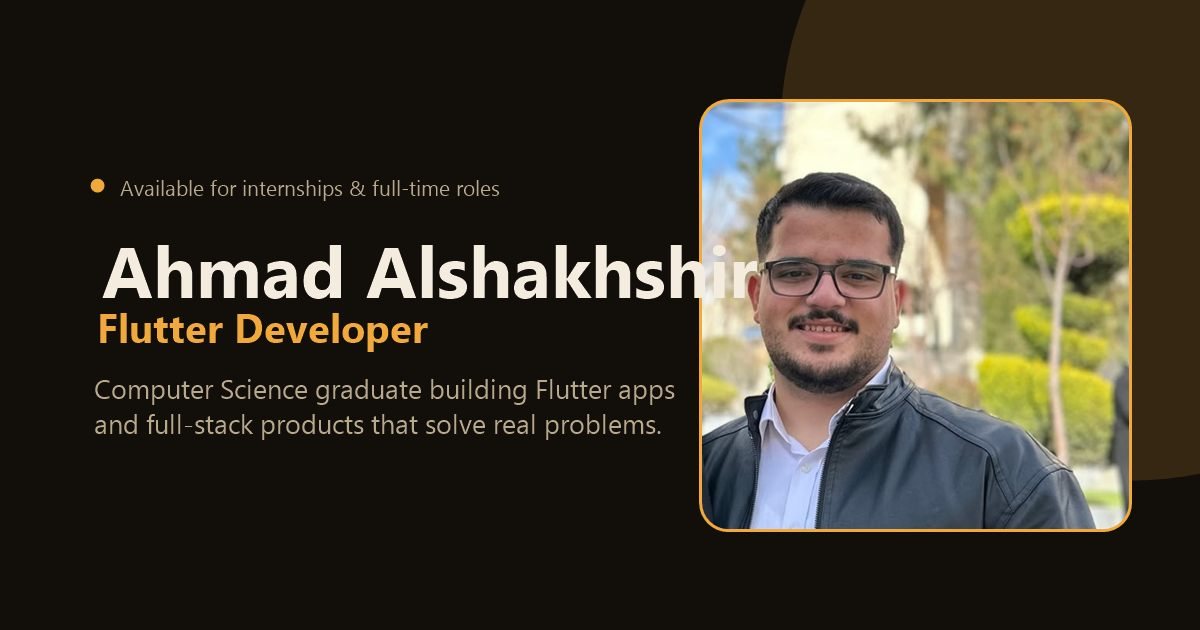
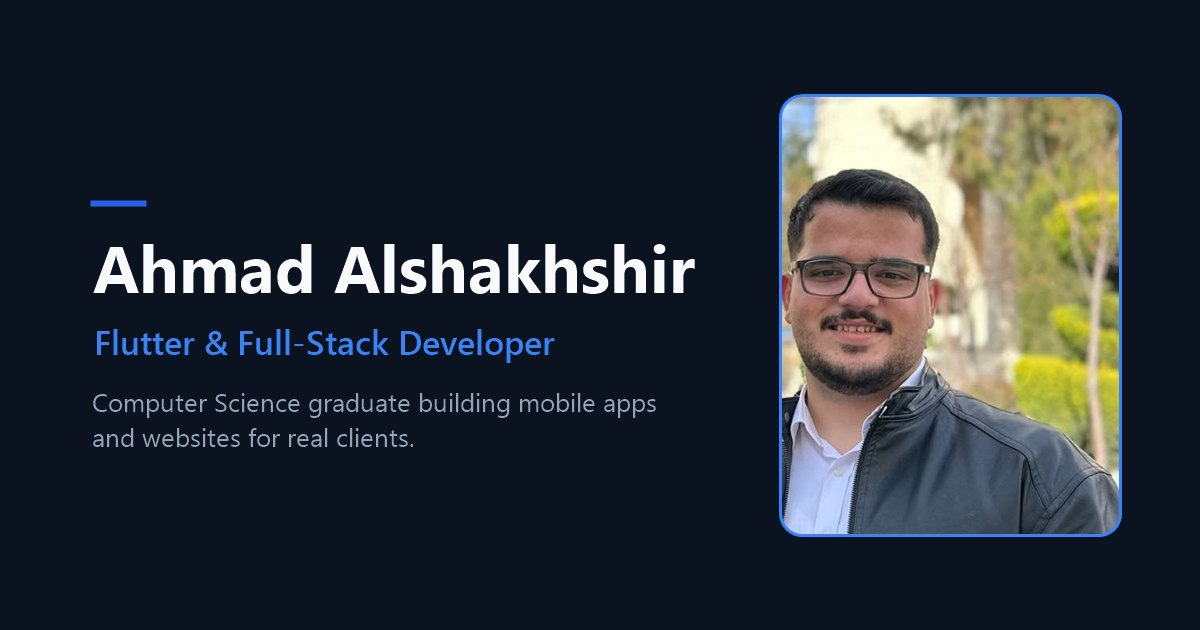
New color scheme: navy and blue

diff --git a/index.html b/index.html
@@ -35,36 +35,41 @@
 <link href="https://fonts.googleapis.com/css2?family=Outfit:wght@400;500;600;700;800&family=Inter:wght@400;500;600&display=swap" rel="stylesheet">
 <style>
   :root{
-    --bg:#120e0a;
-    --bg-soft:#1b1512;
-    --header-bg:rgba(18,14,10,0.85);
-    --cream:#f3ecdf;
-    --cream-2:#e9dfcb;
-    --paper:#faf6ee;
-    --ink:#201a14;
-    --text:#f3ecdf;
-    --text-soft:#e9dfcb;
-    --heading:#faf6ee;
-    --muted:#b8a98c;
-    --muted-2:#7a6e58;
-    --accent:#f2a93b;
-    --accent-dark:#c9791e;
-    --line:rgba(243,236,223,0.12);
-    --tag-bg:rgba(243,236,223,0.06);
+    --bg:#0b1220;
+    --bg-soft:#111a2e;
+    --header-bg:rgba(11,18,32,0.85);
+    --cream:#eef2f8;
+    --cream-2:#dde5f0;
+    --paper:#f8fafc;
+    --ink:#0f172a;
+    --on-accent:#ffffff;
+    --text:#e2e8f0;
+    --text-soft:#cbd5e1;
+    --heading:#f8fafc;
+    --muted:#94a3b8;
+    --muted-2:#64748b;
+    --accent:#3b82f6;
+    --accent-dark:#2563eb;
+    --btn:#2563eb;
+    --btn-hover:#1d4ed8;
+    --line:rgba(226,232,240,0.10);
+    --tag-bg:rgba(226,232,240,0.05);
     --radius:14px;
     --maxw:1140px;
   }
 
   :root[data-theme="light"]{
-    --bg:#f5efe2;
-    --bg-soft:#eae0cb;
-    --header-bg:rgba(245,239,226,0.85);
-    --text:#201a14;
-    --text-soft:#4a4030;
-    --heading:#120e0a;
-    --muted:#6b5f4a;
-    --line:rgba(32,26,20,0.14);
-    --tag-bg:rgba(32,26,20,0.05);
+    --bg:#f6f8fb;
+    --bg-soft:#eaeff6;
+    --header-bg:rgba(246,248,251,0.85);
+    --text:#0f172a;
+    --text-soft:#334155;
+    --heading:#0b1220;
+    --muted:#64748b;
+    --accent:#2563eb;
+    --accent-dark:#1d4ed8;
+    --line:rgba(15,23,42,0.12);
+    --tag-bg:rgba(15,23,42,0.04);
   }
 
   *{margin:0;padding:0;box-sizing:border-box;}
@@ -89,7 +94,7 @@
   section{position:relative;}
   section.section-pad{overflow:hidden;}
   .wrap{max-width:var(--maxw);margin:0 auto;padding:0 32px;position:relative;z-index:1;}
-  ::selection{background:var(--accent);color:var(--ink);}
+  ::selection{background:var(--btn);color:var(--on-accent);}
 
   .reveal{opacity:0;transform:translateY(16px);transition:opacity .6s ease, transform .6s ease;}
   .reveal.in{opacity:1;transform:none;}
@@ -150,7 +155,7 @@
   .brand-mark{
     width:48px;height:48px;border-radius:14px;flex-shrink:0;
     display:flex;align-items:center;justify-content:center;
-    background:var(--accent);color:var(--ink);
+    background:var(--btn);color:var(--on-accent);
     font-family:'Outfit',sans-serif;font-weight:800;font-size:1.1rem;
   }
   .brand-name{font-family:'Outfit',sans-serif;font-weight:700;font-size:1.12rem;color:var(--heading);white-space:nowrap;}
@@ -178,7 +183,7 @@
   .toggle-knob{
     width:26px;height:26px;border-radius:50%;
     display:flex;align-items:center;justify-content:center;
-    background:var(--accent);color:var(--ink);
+    background:var(--btn);color:var(--on-accent);
     transition:transform .3s ease;
   }
   :root[data-theme="light"] .toggle-knob{transform:translateX(-26px);}
@@ -188,11 +193,11 @@
   .hire-btn{
     display:inline-flex;align-items:center;gap:8px;white-space:nowrap;
     padding:12px 22px;border-radius:14px;
-    background:var(--accent);color:var(--ink);
+    background:var(--btn);color:var(--on-accent);
     font-weight:700;font-size:0.98rem;
     transition:transform .25s ease, box-shadow .25s ease;
   }
-  .hire-btn:hover{background:var(--accent-dark);}
+  .hire-btn:hover{background:var(--btn-hover);}
   .burger{display:none;background:none;border:none;color:var(--heading);font-size:1.6rem;cursor:pointer;}
   .nav-overlay{display:none;}
   @media (max-width:1180px){
@@ -243,7 +248,7 @@
     min-height:2.2rem;
     display:flex;align-items:center;gap:10px;
   }
-  #typed{color:var(--accent);font-weight:600;}
+  #typed{color:var(--text-soft);font-weight:500;}
   .hero p.desc{
     color:var(--muted);
     max-width:48ch;
@@ -261,10 +266,10 @@
     font-family:inherit;cursor:pointer;
   }
   .btn-primary{
-    background:var(--accent);color:var(--ink);
+    background:var(--btn);color:var(--on-accent);
   }
   .btn-primary svg{transition:transform .25s ease;}
-  .btn-primary:hover{background:var(--accent-dark);}
+  .btn-primary:hover{background:var(--btn-hover);}
   .btn-primary:hover svg{transform:translate(3px,-3px);}
   .btn-ghost{border-color:var(--line);color:var(--text);}
   .btn-ghost svg{transition:transform .25s ease;}
@@ -288,7 +293,7 @@
   }
   .avatar-frame{
     width:100%;aspect-ratio:1/1.05;border-radius:24px;
-    background:linear-gradient(160deg,#2b2118,#171310);
+    background:linear-gradient(160deg,#16223b,#0b1220);
     overflow:hidden;position:relative;
   }
   .avatar-frame img{
@@ -297,7 +302,7 @@
   .avatar-fallback{
     width:100%;height:100%;display:flex;align-items:center;justify-content:center;
     font-family:'Outfit',sans-serif;font-weight:800;font-size:4.5rem;color:var(--accent);
-    background:linear-gradient(160deg,#2b2118,#171310);
+    background:linear-gradient(160deg,#16223b,#0b1220);
   }
   .badge-float{
     position:absolute;background:var(--ink);color:var(--paper);
@@ -306,7 +311,7 @@
     box-shadow:0 14px 28px -12px rgba(0,0,0,0.5);
   }
   .badge-float.b1{top:-14px;left:-18px;}
-  .badge-float.b2{bottom:14px;right:-30px;background:var(--accent);color:var(--ink);}
+  .badge-float.b2{bottom:14px;right:-30px;background:var(--btn);color:var(--on-accent);}
   .badge-float span.ic{width:6px;height:6px;border-radius:50%;background:var(--accent);}
   .badge-float.b2 span.ic{background:var(--ink);}
 
@@ -322,12 +327,12 @@
     background:var(--cream);color:var(--ink);border-radius:var(--radius);
     padding:44px;
   }
-  .about-card p{color:#4a4030;margin-bottom:18px;font-size:1.02rem;}
+  .about-card p{color:#334155;margin-bottom:18px;font-size:1.02rem;}
   .facts{display:grid;grid-template-columns:1fr 1fr;gap:20px;margin-top:28px;}
   .fact{display:flex;gap:12px;align-items:flex-start;}
   .fact-icon{
     width:34px;height:34px;border-radius:10px;flex-shrink:0;
-    background:rgba(32,26,20,0.06);color:var(--ink);
+    background:rgba(15,23,42,0.06);color:var(--ink);
     display:flex;align-items:center;justify-content:center;
   }
   .fact b{display:block;font-family:'Outfit',sans-serif;color:var(--ink);font-size:1rem;margin-bottom:2px;}
@@ -378,13 +383,13 @@
   }
   .project-card:hover{border-color:var(--accent);transform:translateY(-4px);}
   .project-visual{
-    background:linear-gradient(150deg,#2b2118,#171310);
+    background:linear-gradient(150deg,#16223b,#0b1220);
     display:flex;align-items:center;justify-content:center;
     position:relative;height:420px;overflow:hidden;
   }
   .project-visual img{width:100%;height:100%;object-fit:cover;object-position:top center;}
   .project-tag-big{
-    font-family:'Outfit',sans-serif;font-weight:800;font-size:2.2rem;color:rgba(242,169,59,0.85);
+    font-family:'Outfit',sans-serif;font-weight:800;font-size:2.2rem;color:rgba(59,130,246,0.85);
     text-align:center;
   }
   .project-body{padding:36px 40px;}
@@ -497,7 +502,7 @@
     transition:transform .3s ease, box-shadow .3s ease;
   }
   .rafaq-credit img{width:34px;height:auto;transition:transform .5s cubic-bezier(.2,.7,.2,1);}
-  .rafaq-credit small{display:block;font-size:0.7rem;color:#6b5f4a;line-height:1.2;}
+  .rafaq-credit small{display:block;font-size:0.7rem;color:#64748b;line-height:1.2;}
   .rafaq-credit strong{display:block;font-family:'Outfit',sans-serif;font-size:1.02rem;color:#14161c;line-height:1.15;}
   .rafaq-credit:hover{transform:translateY(-3px);box-shadow:0 16px 32px -12px rgba(38,198,218,0.55);}
   .rafaq-credit:hover img{transform:rotate(-12deg) scale(1.1);}
@@ -513,7 +518,7 @@
   .mini-card:hover{transform:translateY(-6px);border-color:var(--accent);}
   .mini-thumb{
     width:calc(100% + 56px);margin:-28px -28px 18px;height:160px;
-    background:#0d0a07;border-bottom:1px solid var(--line);
+    background:#0a1020;border-bottom:1px solid var(--line);
     overflow:hidden;
   }
   .mini-thumb img{width:100%;height:100%;object-fit:cover;object-position:top center;transition:transform .5s ease;}
@@ -522,7 +527,7 @@
   .mini-thumb.placeholder svg{width:46px;height:46px;color:rgba(255,255,255,0.9);}
   .mini-thumb.phone-frame{
     display:flex;align-items:center;justify-content:center;
-    background:linear-gradient(150deg,#2b2118,#171310);
+    background:linear-gradient(150deg,#16223b,#0b1220);
   }
   .mini-thumb.phone-frame img{width:auto;height:calc(100% + 40px);object-fit:contain;}
   .mini-card .p-label{font-size:0.76rem;color:var(--accent);font-weight:600;margin-bottom:10px;}
@@ -571,7 +576,7 @@
 
   .lightbox{
     position:fixed;inset:0;z-index:300;display:flex;align-items:center;justify-content:center;padding:24px;
-    background:rgba(8,6,4,0.86);backdrop-filter:blur(8px);
+    background:rgba(5,9,18,0.88);backdrop-filter:blur(8px);
     opacity:0;pointer-events:none;transition:opacity .35s ease;
   }
   .lightbox.open{opacity:1;pointer-events:auto;}
@@ -585,11 +590,11 @@
     background:rgba(255,255,255,0.08);color:#fff;font-size:1.4rem;cursor:pointer;display:flex;align-items:center;justify-content:center;
     transition:background .25s ease, transform .25s ease;
   }
-  .lb-btn:hover{background:var(--accent);color:var(--ink);transform:scale(1.08);}
+  .lb-btn:hover{background:var(--btn);color:var(--on-accent);transform:scale(1.08);}
   .lb-close{top:20px;right:20px;}
   .lb-prev{left:20px;top:50%;margin-top:-24px;}
   .lb-next{right:20px;top:50%;margin-top:-24px;}
-  .lb-caption{position:absolute;bottom:18px;left:0;right:0;text-align:center;color:#e9dfcb;font-size:0.9rem;}
+  .lb-caption{position:absolute;bottom:18px;left:0;right:0;text-align:center;color:#cbd5e1;font-size:0.9rem;}
 
   @media (max-width:920px){
     .degree{grid-template-columns:1fr;padding:36px 22px;}
@@ -664,7 +669,7 @@
     display:flex;align-items:center;justify-content:center;
     background:var(--line);color:var(--heading);transition:color .25s ease, background .25s ease;
   }
-  .contact-row:hover .contact-ic{background:var(--accent);color:var(--ink);}
+  .contact-row:hover .contact-ic{background:var(--btn);color:var(--on-accent);}
   .contact-foot{
     position:relative;border-top:1px solid var(--line);padding-top:36px;
     display:flex;justify-content:space-between;align-items:center;flex-wrap:wrap;gap:18px;
@@ -673,7 +678,7 @@
   .foot-avatar{
     width:62px;height:62px;border-radius:16px;flex-shrink:0;
     display:flex;align-items:center;justify-content:center;
-    background:var(--accent);color:var(--ink);
+    background:var(--btn);color:var(--on-accent);
     font-family:'Outfit',sans-serif;font-weight:800;font-size:1.3rem;
   }
   .foot-id strong{display:block;font-family:'Outfit',sans-serif;font-size:1.25rem;color:var(--heading);}
@@ -681,7 +686,7 @@
   .contact-foot p{color:var(--muted);font-size:0.95rem;}
 
   .skip-link{
-    position:absolute;left:16px;top:-60px;background:var(--accent);color:var(--ink);
+    position:absolute;left:16px;top:-60px;background:var(--btn);color:var(--on-accent);
     padding:10px 18px;border-radius:10px;font-weight:600;z-index:1000;transition:top .2s ease;
   }
   .skip-link:focus{top:16px;}
